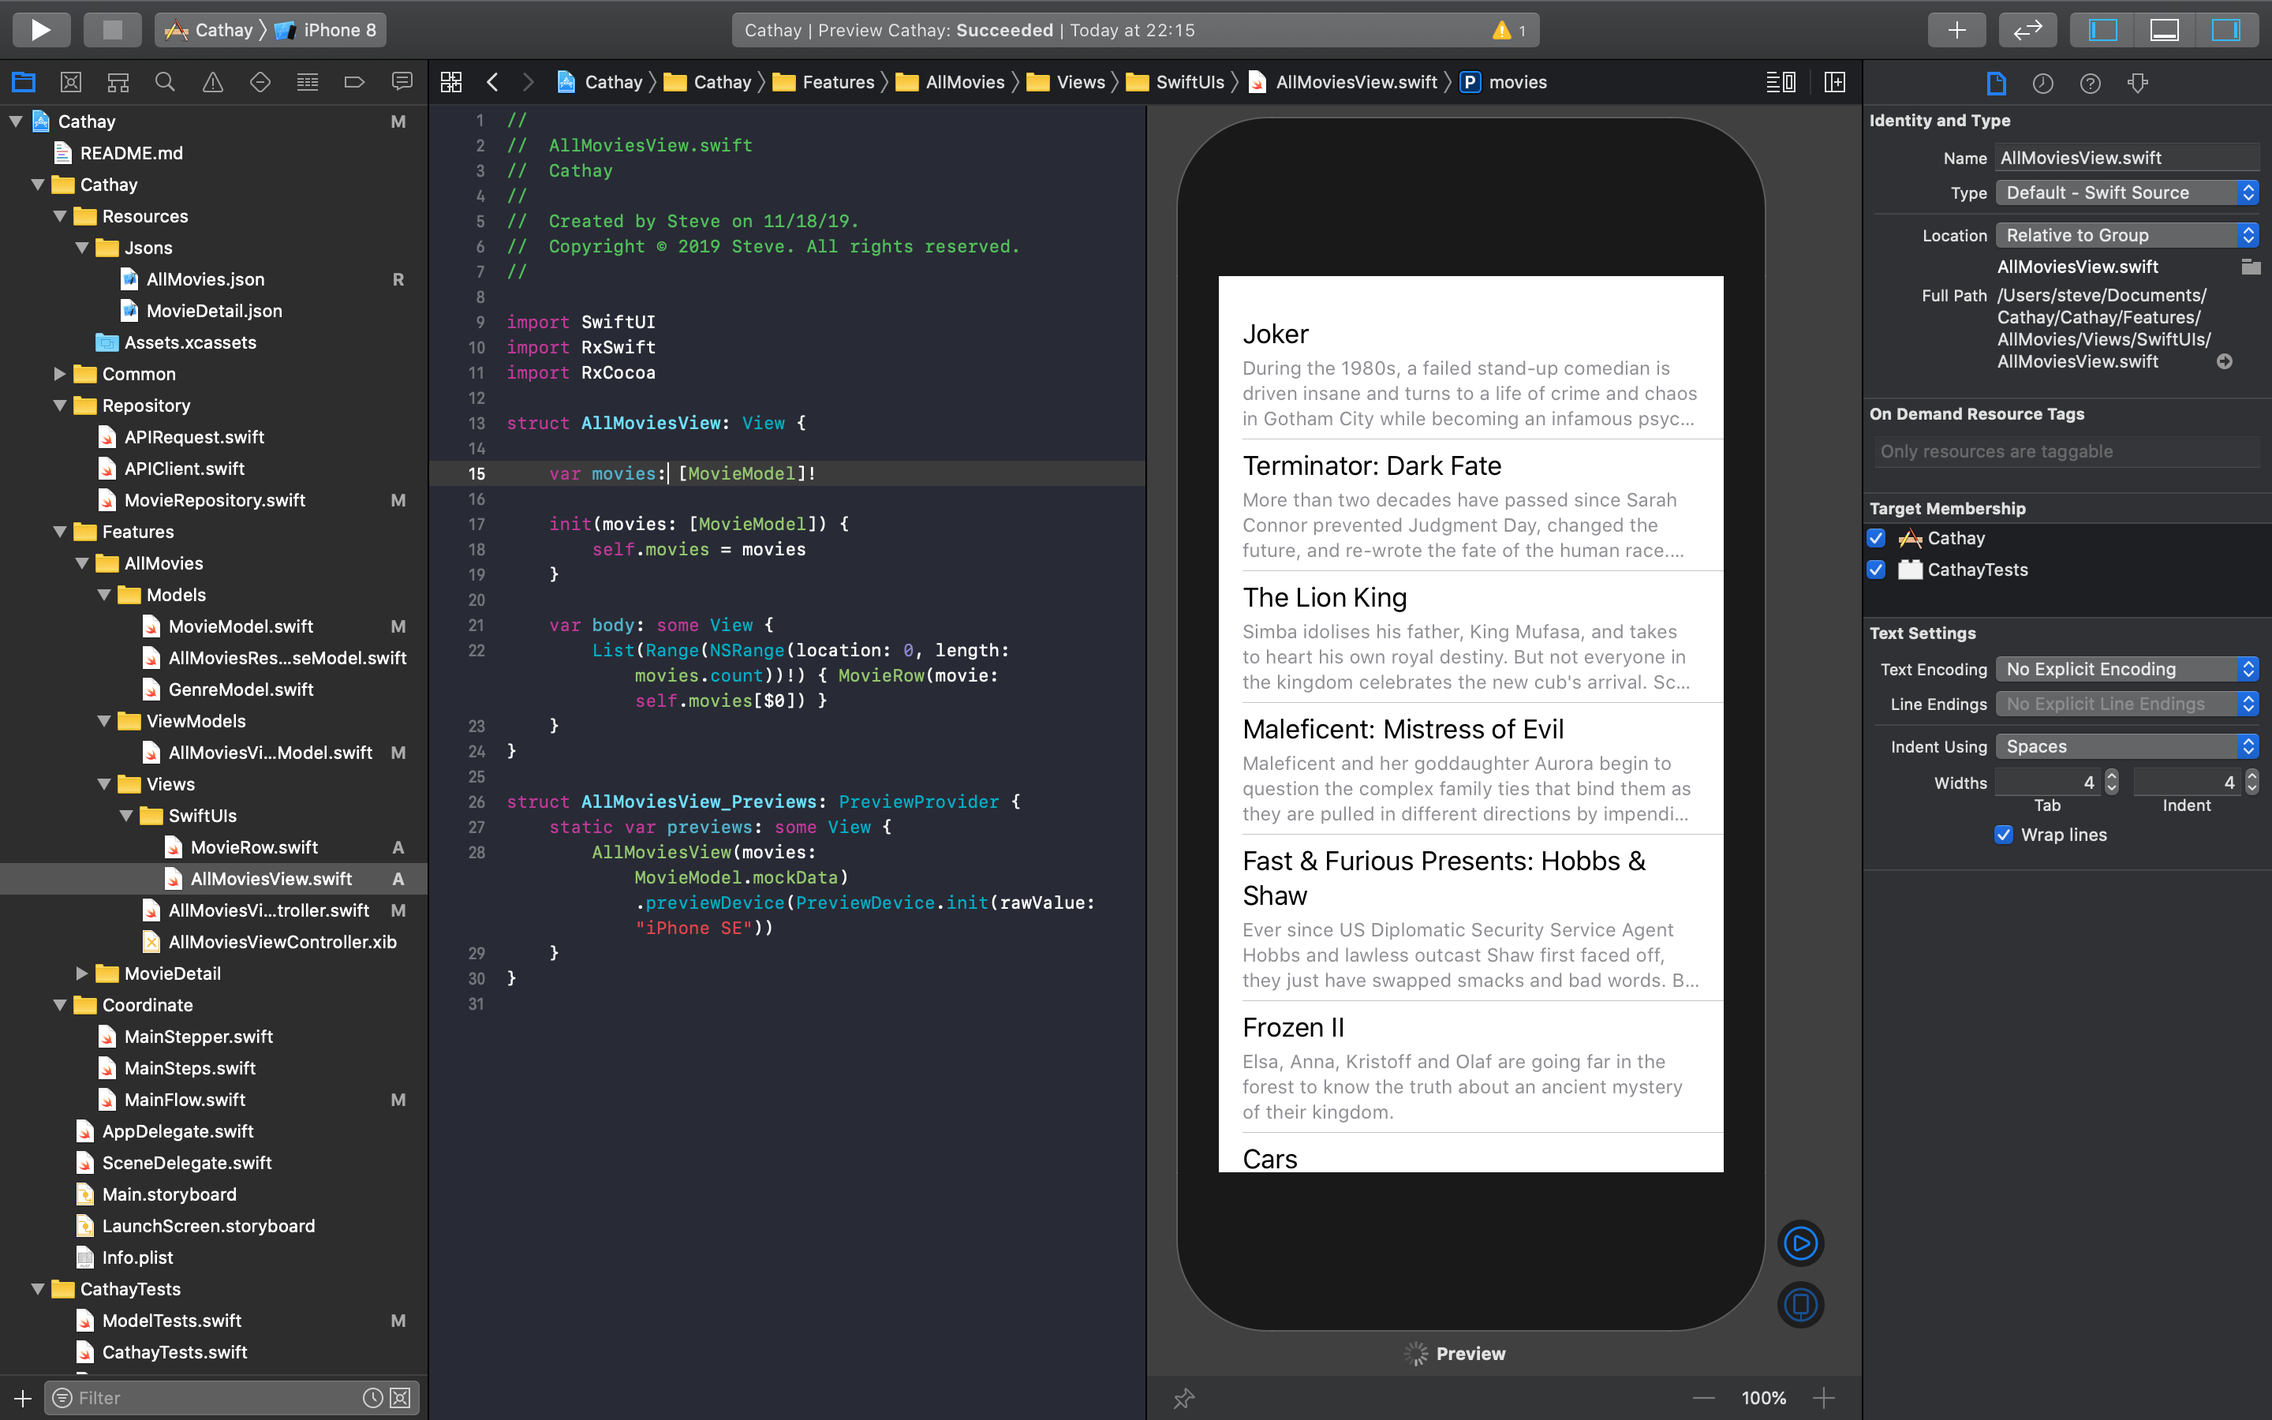
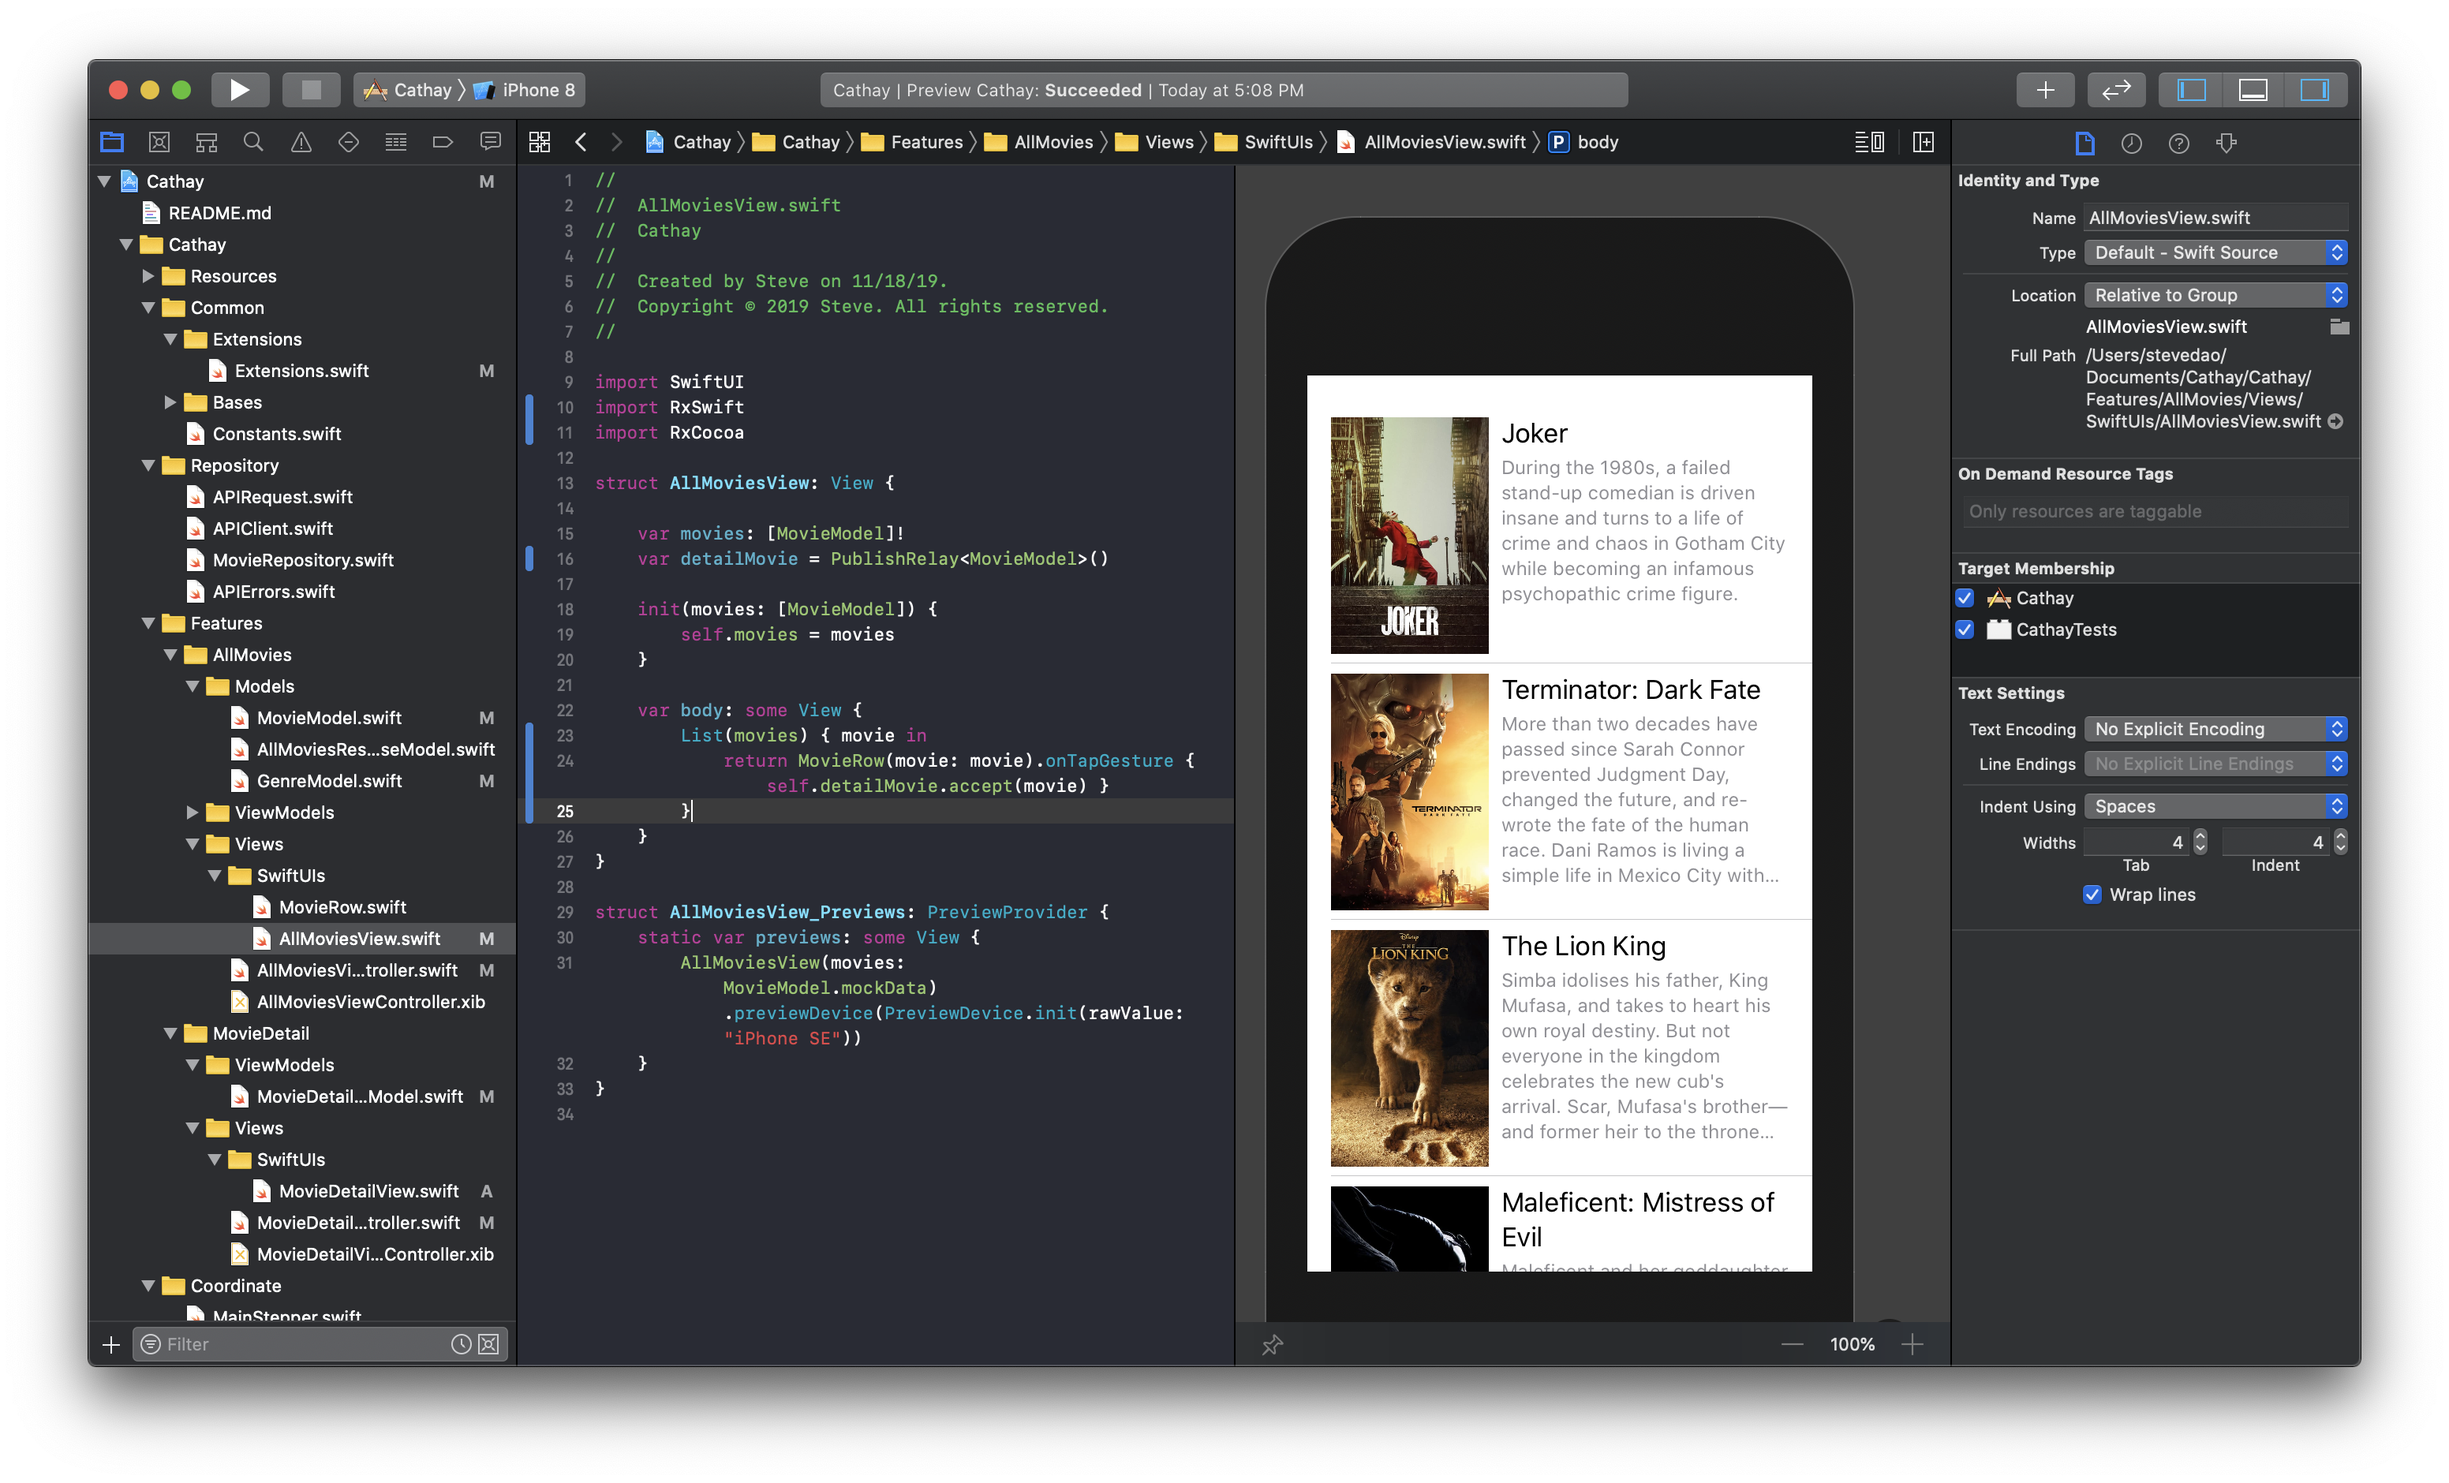
finished movie detail view

diff --git a/Cathay/Features/MovieDetail/Views/MovieDetailViewController.swift b/Cathay/Features/MovieDetail/Views/MovieDetailViewController.swift
@@ -7,13 +7,45 @@
 //
 
 import UIKit
+import SwiftUI
+import RxSwift
+import RxCocoa
+import RxOptional
+import RxSwiftExt
 import Reusable
 
 class MovieDetailViewController: UIViewController, NibOwnerLoadable {
+    
+    var viewModel: MovieDetailViewModel!
+    private let disposeBag = DisposeBag()
 
     override func viewDidLoad() {
         super.viewDidLoad()
-
         title = "Movie Detail"
+        
+        rx.viewDidAppear.debug("tets").subscribe().disposed(by: disposeBag)
+
+        let outputs = viewModel.transform(input: MovieDetailViewModel.Input(refreshTrigger: self.rx.viewDidAppear.mapTo(())))
+        
+        outputs.movieModel.debug("test")
+            .subscribeOn(MainScheduler.instance)
+            .distinctUntilChanged()
+            .subscribe(onNext: { [weak self] movie in
+                guard let self = self else { return }
+                
+                self.children.forEach { child in
+                    child.view.removeFromSuperview()
+                    child.removeFromParent()
+                    child.didMove(toParent: nil)
+                }
+                
+                let child = UIHostingController(rootView: MovieDetailView(movie: movie))
+                child.view.frame = self.view.bounds
+                child.view.autoresizingMask = [.flexibleWidth, .flexibleHeight]
+                self.view.addSubview(child.view)
+                self.addChild(child)
+                child.didMove(toParent: self)
+            })
+            .disposed(by: disposeBag)
     }
 }

diff --git a/Cathay/Common/Extensions/Extensions.swift b/Cathay/Common/Extensions/Extensions.swift
@@ -22,3 +22,34 @@ extension Bundle {
     }
 }
 
+extension RxSwift.Reactive where Base: UIViewController {
+    public var viewDidLoad: Observable<Void> {
+        return methodInvoked(#selector(UIViewController.viewDidLoad))
+            .map { _ in return }
+    }
+    
+    public var viewDidLayoutSubviews: Observable<Void> {
+        return methodInvoked(#selector(UIViewController.viewDidLayoutSubviews))
+            .map { _ in return }
+    }
+    
+    public var viewWillAppear: Observable<Bool> {
+        return methodInvoked(#selector(UIViewController.viewWillAppear))
+            .map { $0.first as? Bool ?? false }
+    }
+    
+    public var viewDidAppear: Observable<Bool> {
+        return methodInvoked(#selector(UIViewController.viewDidAppear))
+            .map { $0.first as? Bool ?? false }
+    }
+    
+    public var viewWillDisappear: Observable<Bool> {
+        return methodInvoked(#selector(UIViewController.viewWillDisappear))
+            .map { $0.first as? Bool ?? false }
+    }
+    
+    public var viewDidDisappear: Observable<Bool> {
+        return methodInvoked(#selector(UIViewController.viewDidDisappear))
+            .map { $0.first as? Bool ?? false }
+    }
+}

diff --git a/Cathay/Features/MovieDetail/ViewModels/MovieDetailViewModel.swift b/Cathay/Features/MovieDetail/ViewModels/MovieDetailViewModel.swift
@@ -17,19 +17,25 @@ class MovieDetailViewModel: ViewModelType, Stepper {
     private lazy var loadMovieDetailAction = Action<String, MovieModel> { id -> Single<MovieModel> in
         return self.movieRepository.loadMovieDetail(id: id)
     }
+    private let disposeBag = DisposeBag()
     
     // ViewModelType conformances
     struct Input {
-        
+        let refreshTrigger: Observable<Void>
     }
     
     struct Output {
-        var movieModel: Observable<MovieModel>
-        var isLoading: Observable<Bool>
-        var errors: Observable<Error>
+        let movieModel: Observable<MovieModel>
+        let isLoading: Observable<Bool>
+        let errors: Observable<Error>
     }
     
     func transform(input: MovieDetailViewModel.Input) -> MovieDetailViewModel.Output {
+        input.refreshTrigger
+            .mapTo(movieId)
+            .bind(to: loadMovieDetailAction.inputs)
+            .disposed(by: disposeBag)
+        
         return Output(movieModel: loadMovieDetailAction.elements,
                       isLoading: loadMovieDetailAction.executing,
                       errors: loadMovieDetailAction.underlyingError)

diff --git a/Cathay/Features/MovieDetail/Views/SwiftUIs/MovieDetailView.swift b/Cathay/Features/MovieDetail/Views/SwiftUIs/MovieDetailView.swift
@@ -1,0 +1,30 @@
+//
+//  MovieDetailView.swift
+//  Cathay
+//
+//  Created by Steve Dao on 19/11/19.
+//  Copyright © 2019 Steve. All rights reserved.
+//
+
+import SwiftUI
+import SDWebImageSwiftUI
+
+struct MovieDetailView: View {
+    
+    let movie: MovieModel
+    
+    var body: some View {
+        VStack(alignment: .leading, spacing: 4, content: {
+            WebImage(url: movie.backDropImageURL).resizable().scaledToFit()
+            Text(movie.title).font(.title).bold()
+            Text(movie.overView ?? "").font(.subheadline).italic()
+        }).frame(alignment: .top)
+    }
+}
+
+struct MovieDetailView_Previews: PreviewProvider {
+    static var previews: some View {
+        MovieDetailView(movie: MovieModel.mockData.first!)
+            .previewDevice(PreviewDevice.init(rawValue: "iPhone SE"))
+    }
+}

diff --git a/Cathay/Features/AllMovies/Models/MovieModel.swift b/Cathay/Features/AllMovies/Models/MovieModel.swift
@@ -12,8 +12,8 @@ import RxCocoa
 import RxOptional
 import UIKit
 
-public struct MovieModel: Identifiable, Decodable {
-    
+public struct MovieModel: Identifiable, Decodable, Equatable {
+
     private let posterImageURLString: String
     private let backDropImageURLString: String
     var posterImageURL: URL? {
@@ -49,6 +49,10 @@ public struct MovieModel: Identifiable, Decodable {
         case posterImageURLString = "poster_path"
         case backDropImageURLString = "backdrop_path"
         case overView = "overview"
+    }
+    
+    public static func == (lhs: MovieModel, rhs: MovieModel) -> Bool {
+        return lhs.id == rhs.id
     }
     
     static var mockData: [MovieModel] {

diff --git a/Cathay/Coordinate/MainFlow.swift b/Cathay/Coordinate/MainFlow.swift
@@ -41,6 +41,7 @@ class MainFlow: Flow {
         case .showMovieDetail(let id):
             let viewController = MovieDetailViewController()
             let viewModel = MovieDetailViewModel(movieId: id, movieRepository: movieService)
+            viewController.viewModel = viewModel
             navigationController.pushViewController(viewController, animated: true)
             
             return .one(flowContributor: .contribute(withNextPresentable: viewController, withNextStepper: viewModel))

diff --git a/Cathay/Features/AllMovies/Views/SwiftUIs/AllMoviesView.swift b/Cathay/Features/AllMovies/Views/SwiftUIs/AllMoviesView.swift
@@ -7,17 +7,22 @@
 //
 
 import SwiftUI
+import RxSwift
+import RxCocoa
 
 struct AllMoviesView: View {
     
     var movies: [MovieModel]!
+    var detailMovie = PublishRelay<MovieModel>()
     
     init(movies: [MovieModel]) {
         self.movies = movies
     }
     
     var body: some View {
-        List(movies) { MovieRow(movie: $0) }
+        List(movies) { movie in
+            return MovieRow(movie: movie).onTapGesture { self.detailMovie.accept(movie) }
+        }
     }
 }
 

diff --git a/Cathay/Features/AllMovies/Views/AllMoviesViewController.swift b/Cathay/Features/AllMovies/Views/AllMoviesViewController.swift
@@ -42,6 +42,10 @@ class AllMoviesViewController: UIViewController, NibOwnerLoadable {
                 viewController.rootView.movies = movies
             })
             .disposed(by: disposeBag)
+        
+        viewController.rootView.detailMovie
+            .bind(to: showMovieDetailTrigger)
+            .disposed(by: disposeBag)
     }
     
     override func viewDidAppear(_ animated: Bool) {

diff --git a/Cathay/Features/AllMovies/Models/GenreModel.swift b/Cathay/Features/AllMovies/Models/GenreModel.swift
@@ -8,7 +8,7 @@
 
 import Foundation
 
-struct GenreModel: Decodable {
+struct GenreModel: Identifiable, Decodable {
     let id: Int
     let name: String
 }

diff --git a/README.md b/README.md
@@ -1,11 +1,15 @@
 # Cathay
+
 ## Hello world!
-Cathay is an iOS assignment while applying to **ShopBack** at Singapore. We're applying some keys:
+Cathay is an iOS assignment while applying to **ShopBack** at Singapore.
+![](./srcs/cathay.png)
+We're applying some keys:
 1. MVVM architecture.
 2. Reactive programming by RxSwift & RxCocoa.
 3. Applying Coordinator pattern by RxFlow for App's navigations.
 4. Implementing UI by SwiftUI.
 5. Carthage dependency manager.
+
 
 Feel free to contribute to make this open-source project become better for everyone who love reactive programming & MVVM architecture.
 
@@ -17,11 +21,10 @@ Feel free to contribute to make this open-source project become better for every
 - [x] Implementing repository.
 - [x] Adding the Mock datas & mock services.
 - [x] Implementing the Coordinator by RxFlow.
-- [ ] Implementing Views by SwiftUI.
+- [x] Implementing Views by SwiftUI.
 - [ ] Implementing repository by real API services from TheMovieDB.
 - [ ] Supporting an entry point from deep link by RxFlow.
 - [ ] Supporting multi schemes for mock & real services.
-
 
 ## Installation
 We're using the [**Carthage**](https://github.com/Carthage/Carthage) dependency manager instead of **Cocoapods** to speed up the build time. </br>
